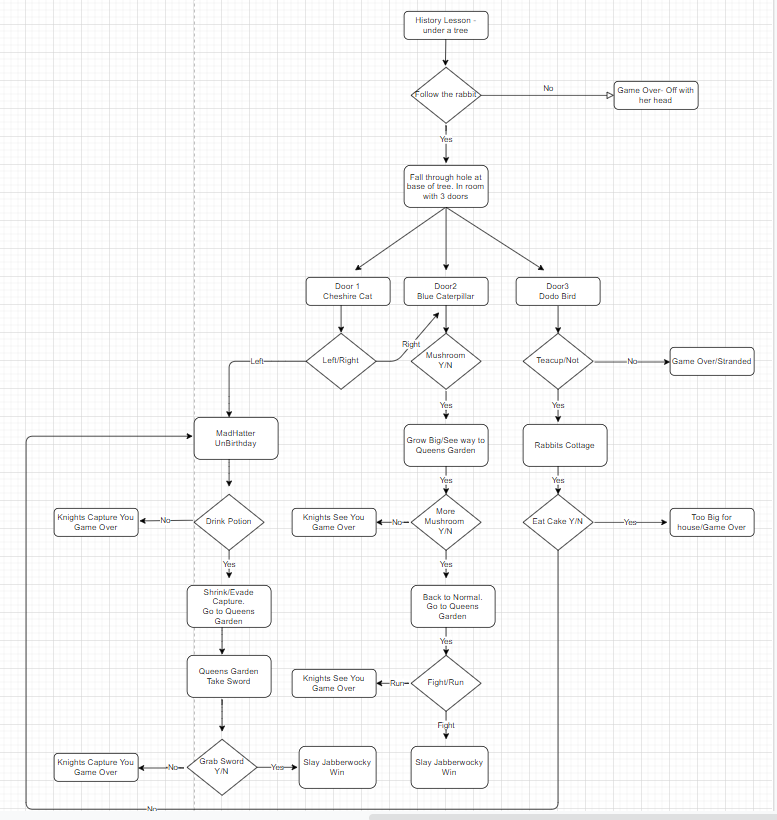
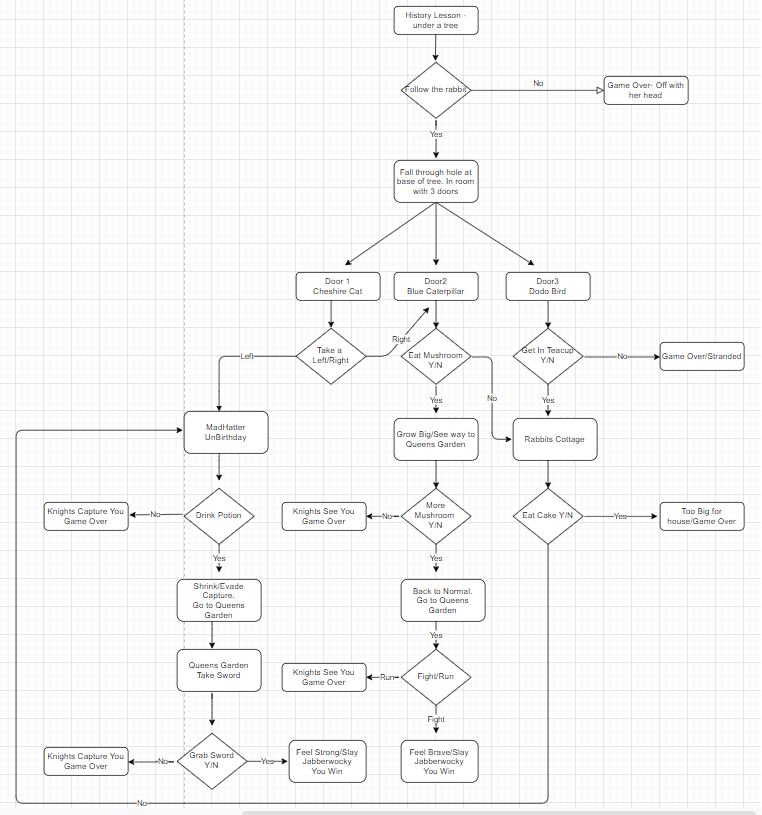
Fix mistake in layout of the flowchart and correct grammar and spelling mistakes in README file so far

diff --git a/README.md b/README.md
@@ -1,6 +1,6 @@
 # Adventures of Alice
 
-The Adventures of Alice is a text based adventure game. The game is based on the story of Alice's Adventures in Wonderland and Through the Looking glass by Lewis Carroll. The player is taken through a land of wonder and meets many fantastic creatures along the way. The aim of the game is to find the Vorpal sword and slay the Jabberwocky, a fierce dragon like creature, who along with the Queen of Hearts has control over Wonderland. There is a short introduction to the game and the player is asked to enter their name. The player is asked a series of questions. Depending on how they answer these questions they will go through a series of different adventures and may or may not slay the Jabberwocky and restore order to Wonderland.
+The Adventures of Alice is a text based adventure game. The game is based on the story of 'Alice's Adventures in Wonderland' and 'Through the Looking glass' by Lewis Carroll. The player is taken through a land of wonder and meets many fantastic creatures along the way. The aim of the game is to find the Vorpal sword and slay the Jabberwocky, a fierce dragon-like creature, who along with the Queen of Hearts has control over Wonderland. There is a short introduction to the game and the player is asked to enter their name. The player is asked a series of questions. Depending on how they answer these questions they will go through a series of different adventures and may or may not slay the Jabberwocky and restore order to Wonderland.
 
 ## Multi Screen mock-up of the game
 ![alt text](assets/images/Adventures-MultiScreen.png)
@@ -18,18 +18,18 @@ and they are asked to enter their name to start their adventure. If a name is no
 
 ![alt text](assets/images/NameError-Screen.png)
 
-* If a players name is entered, the method capitalize is used to format the name entered and it is printed in a welcome statement. 
+* If a players name is entered, the capitalize() method is used to format the name entered and it is printed in a welcome statement. 
 * The first step in the story begins. The player is presented with an option to follow the white rabbit. The function will get all values from the google sheets data.
 * It will create a sublist of the values needed to validate the input from the player.
-* It will return the data of output and next step to become the current step in the google sheet.
+* It will return the output for the current step and the value ofthe next the next step.
 
 ![alt text](assets/images/Adventures-Screen2.png)
 
-* If the input data does not exist as a valid response for the current step in the game, an error message will be displayed and the player will have to enter the correct response to continue.
+* If the players input response does not exist as a valid response for the current step in the game, an error message will be displayed and the player will have to enter the correct response to continue.
 
 ![alt text](assets/images/Adventures-Screen3.png)
 
-* There are seven ways to lose the game and two different ways to win.
+* In the current data model there are seven ways to lose the game and two different ways to win. This is configurable.
 * A tally of the players wins and losses is accumulated and displayed to the player at the end of each game.
 * The player is also given the option to play again.
 
@@ -41,14 +41,14 @@ This shows one of the possibe losses.
 
 ![alt text](assets/images/Adventures-Screen5.png)
 
-* Functionality to validate the data in the data structure, google sheets. For example, if a next step is missing in the google sheets, the program  will output an error to alert the user that the data is missing or compromised.
+* There is functionality to validate the data in the google sheets data structure. For example, if a next step is missing in the google sheets, the program  will output an error to alert the user that the data is missing and the data model is compromised.
 
 
 ![alt text](assets/images/Data-Error-Screen.png)
 
 ### Use of Python 
 
-While coding this game I intially used a for loop to loop through the list of data that had been retreived from the google sheets. This loop would create a sublist of the data that was needed for validation and to get the next step. Using google I discovered a more powerful pythonic way of doing this in just one line. These are screen shots of my code as I had it before putting in the lambda method.
+While coding this game I intially used a for loop to loop through the list of data that had been retreived from the google sheets. This loop would create a sublist of the data that was needed for validation and to get the next step. Using google I discovered a more powerful pythonic way of doing this in just one line. These are screen shots of my code as I had it before putting in the lambda function.
 
 ![alt text](assets/images/Code-with-loop.png)
 
@@ -60,19 +60,19 @@ https://www.analyticsvidhya.com/blog/2020/03/what-are-lambda-functions-in-python
 
 
 ### Future Features 
-* The game could be extended to hold numerous stories. The player could be presented with a menu of different adventures to play. The different adventure stories could be stored in different Google Sheets.
+* The game could be extended to hold numerous stories. The player could be presented with a menu of different adventures to play. The google sheets could be extended to hold a story name column.
 * An extra sheet could be updated to store the players name and tally of wins/losses.
 * The game could have more options and extra scenarios to make it more interesting and complex. More characters from the original story, such as Tweedledee and Tweedledum could have been added.
-* Art, maybe ASCII art, could be used to display the many iconic symbols associated with Alice in Wonderland, such as, a potions bottle, a drink me or eat me label, the Mad Hatters top hat perhaps.
+* Art, maybe ASCII art, could be used to display the many iconic symbols associated with Alice in Wonderland, such as: a potions bottle, a drink me or eat me label or the Mad Hatters top hat perhaps.
 
 
 ## Data Model
 
-This game uses Google sheets to store all the data for the game. The Adventures-of-Alice sheet is comprised of two sheets. The AlicePrompt sheet stores two values, Step and User Prompt. The value in Step is numeric and represents where the player is in the game. The User Prompt holds the story content and the prompt which are both printed to the screen.
+This game uses Google sheets to store all the data for the game. The Adventures-of-Alice spreadsheet is comprised of two sheets. The AlicePrompt sheet stores two values, Step and User Prompt. The value in Step is numeric and represents where the player is in the game. The User Prompt holds the story content as well as the question the play is asked to respond to. This is printed to the screen.
 
 ![alt text](assets/images/Google-Sheet1.png)
 
-The second sheet, AliceFlow, also stores the Step. The Step values should correspond to the values stored in the Step field in AlicePrompt. It also holds Response, which holds all the possible valid answers that the player may enter for the step that they are at in the game. The next value stored is Output, which will hold the possible outcome for what the player has chosen to enter. And finally, AliceFlow sheet stores the Next Step, which stores the next step of the game depending on how the player answered.
+The second sheet, AliceFlow, also stores the Step. The Step values should correspond to the values stored in the Step field in AlicePrompt. It also holds Response, which holds all the possible valid answers that the player may enter for the step that they are at in the game. The next value stored is Output, which will hold the possible outcomes based on the response the player enters. And finally, AliceFlow sheet stores the next step of the game also based on the players response.
 
 ![alt text](assets/images/Google-Sheet2.png)
 
@@ -81,17 +81,17 @@ https://docs.google.com/spreadsheets/d/1bUZLqS3Y8-wCncuKFJdtRpnGloQ8lo0SaEltfV9j
 
 ### Development of Data Model
 
-When I first approached this project and decided to do a text based adventure game I wanted the text and story content to be separate from my Python code. I wanted to store my data separately to be opened, read and manipulated by the code but not hard coded into my program.
+When I first approached this project and decided to do a text based adventure game, I wanted the text and story content to be separate from my Python code. I wanted my program to open, read and manipulate the data rather than be hard coded into my program.
 
-I experimented by using a txt file, called story.txt in my gitpod repository. I initially used the open file, readlines, close file code in my program but then after some research discovered linecache.getlines module and used this to read certain lines from the text file depending on where the player was in the story by using parameters of the file name and line number. The code is below:
+I experimented by using a text file, called story.txt in my gitpod repository. I initially used the open file, readlines, close file code in my program but then after some research I discovered the linecache.getlines() method and used this to read certain lines from the text file depending on where the player was in the story by using parameters of the file name and line number. The code is below:
 
 ![alt text](assets/images/LineCache-Code.png)
 
-After reviewing the Love Sandwiches mini project, I felt it may be better to used Google Sheets to store the story line and content. I also realised that  I could also used it to store the valid answers to each player prompt, the output and the next step of the game. Hence, I discarded my original idea of using a text file to store and read in the relevant lines and used Google Sheets instead.
+After reviewing the Love Sandwiches mini project, I felt it may be better to used Google Sheets to store the story line and content. I also realised that  I could also use it to store the valid answers to each player prompt, the output and the next step of the game. Hence, I discarded my original idea of using a text file to store and read in the relevant lines and used Google Sheets instead.
 ## Technology
 ### Language Used
 
-* [Python](https://www.python.org) Python is an interpreted high-level general-purpose programming language. I used Python to access the data in Google Sheets and run the game.
+* [Python](https://www.python.org) - Python is an interpreted high-level general-purpose programming language. I used Python to access the data in Google Sheets and run the game.
 
 ### Other Technologies and Libraries
 
